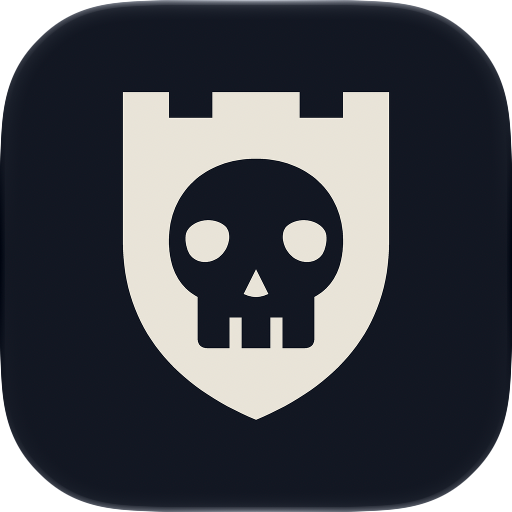
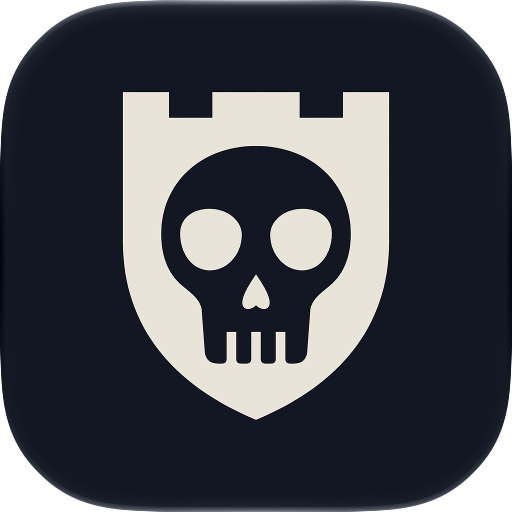
design: new app mark across the extension, iOS and Mac sources; drop stale captures

Changed region(s): [[0.3125, 0.2812, 0.6875, 0.5625], [0.375, 0.5312, 0.625, 0.7188]]

diff --git a/design/app-icon/hisn_mark.py b/design/app-icon/hisn_mark.py
@@ -4,7 +4,7 @@
 The mark is drawn in a 108 x 108 canvas (Android adaptive-icon units):
   base - the battlement shield (ink)
   cut  - the skull, knocked out of the shield (paper); jaw notches form teeth
-  back - eye sockets and nose, drawn back in ink
+  back - eye sockets and nasal cavity, drawn back in ink
 
 Running this script writes:
   design/app-icon/hisn-mark.svg             vector master (light colours)
@@ -25,17 +25,27 @@ from PIL import Image, ImageDraw
 ROOT = os.path.abspath(os.path.join(os.path.dirname(__file__), '..', '..'))
 
 BASE = ['M28 24 H37 V29 H45.5 V24 H62.5 V29 H71 V24 H80 V53 '
-        'C80 70.5 69.5 81.5 54 88 C38.5 81.5 28 70.5 28 53 Z']
-CUT = ['M54 37 C64 37 71 43.6 71 53 C71 58.6 68.8 62.2 65.4 64 L65.4 72 '
-       'Q65.4 74 63.4 74 L59.2 74 L59.2 68 L56.8 68 L56.8 74 L51.2 74 L51.2 68 '
-       'L48.8 68 L48.8 74 L44.6 74 Q42.6 74 42.6 72 L42.6 64 '
-       'C39.2 62.2 37 58.6 37 53 C37 43.6 44 37 54 37 Z']
+    'C80 70.5 69.5 81.5 54 88 C38.5 81.5 28 70.5 28 53 Z']
+# Skull: cranium, cheekbones curving into a tapered jaw, four teeth with
+# rounded tips (the gaps are notches in the jaw).
+CUT = [
+    'M54 34.5 C65 34.5 72.5 42 72.5 51.6 C72.5 56.4 71 59.6 68.4 61.8 C66.6 '
+    '63.3 65 64.4 64.6 66.4 L64 74.6 Q63.8 77 61.4 77 L60.65 77 Q59.75 77 '
+    '59.75 76.1 L59.75 70.8 L57.85 70.8 L57.85 76.1 Q57.85 77 56.95 77 '
+    'L55.85 77 Q54.95 77 54.95 76.1 L54.95 70.8 L53.05 70.8 L53.05 76.1 '
+    'Q53.05 77 52.15 77 L51.05 77 Q50.15 77 50.15 76.1 L50.15 70.8 L48.25 '
+    '70.8 L48.25 76.1 Q48.25 77 47.35 77 L46.6 77 Q44.2 77 44 74.6 L43.4 '
+    '66.4 C43 64.4 41.4 63.3 39.6 61.8 C37 59.6 35.5 56.4 35.5 51.6 C35.5 '
+    '42 43 34.5 54 34.5 Z',
+]
+# Eye sockets with a slightly lowered inner brow, and the nasal cavity.
 BACK = [
-    'M40.6 51 C42.2 48.6 46 48.4 48 50.2 C49.4 51.6 48.8 54.6 46.8 56.2 '
-    'C44.8 57.8 41.8 57.4 40.8 55.2 C40.2 53.8 40 52 40.6 51 Z',
-    'M67.4 51 C65.8 48.6 62 48.4 60 50.2 C58.6 51.6 59.2 54.6 61.2 56.2 '
-    'C63.2 57.8 66.2 57.4 67.2 55.2 C67.8 53.8 68 52 67.4 51 Z',
-    'M54 58.6 L56.4 63.4 Q54 64.6 51.6 63.4 Z',
+    'M39.2 51.6 C39.2 48.4 42 46.6 45.4 46.8 C48.6 47 51.4 49.2 51.2 52.2 '
+    'C51 56 48.2 58.8 45 58.8 C41.6 58.8 39.2 55.6 39.2 51.6 Z',
+    'M68.8 51.6 C68.8 48.4 66 46.6 62.6 46.8 C59.4 47 56.6 49.2 56.8 52.2 '
+    'C57 56 59.8 58.8 63 58.8 C66.4 58.8 68.8 55.6 68.8 51.6 Z',
+    'M54 59.6 C55.2 61.4 57 64 56.6 65.6 C56.3 66.6 55 66.6 54 65.6 C53 '
+    '66.6 51.7 66.6 51.4 65.6 C51 64 52.8 61.4 54 59.6 Z',
 ]
 # Bounding box of the mark: x 28..80, y 24..88, centre (54, 56).
 MARK_CX, MARK_CY = 54, 56
@@ -236,17 +246,17 @@ def main():
     # Android adaptive-icon layers and in-app marks (vectors).
     res = 'android/app/src/main/res/'
     write(res + 'drawable/ic_launcher_foreground.xml', vector_drawable(
-        'Launcher foreground: navy fortress shield, pearl skull.',
+    'Launcher foreground: navy fortress shield, pearl skull.',
         colour_layers(dict(ink=NAVY, paper=PEARL)), ANDROID_SCALE))
     write(res + 'drawable/ic_launcher_monochrome.xml', vector_drawable(
-        'Themed-icon layer: one silhouette, the skull is a hole.',
+    'Themed-icon layer: one silhouette, the skull is a hole.',
         SILHOUETTE, ANDROID_SCALE))
     write(res + 'drawable/ic_splash_mark.xml', vector_drawable(
-        'Android 12 splash: pearl shield on the navy splash background.',
+    'Android 12 splash: pearl shield on the navy splash background.',
         colour_layers(dict(ink=PEARL, paper=NAVY)), ANDROID_SCALE))
     # Brand mark is tinted in code, so it is a silhouette cropped to the mark.
     write(res + 'drawable/ic_brand_mark.xml', vector_drawable(
-        'In-app brand mark, tinted at runtime: one silhouette cropped to the shield.',
+    'In-app brand mark, tinted at runtime: one silhouette cropped to the shield.',
         SILHOUETTE, 1.0, viewport=68, size_dp=24))
 
     # Pre-Android 8 launcher icons: the adaptive icon's visible 72 dp window.

diff --git a/design/app-icon/README.md b/design/app-icon/README.md
@@ -2,7 +2,7 @@
 
 A navy fortress shield with a pearl skull knocked out of it. The battlements on the shield's top edge tie the mark to the name Hisn (حصن, "fortress"); the skull says what the app keeps out. The normal appearance is a navy shield on pearl; the dark appearance is a bone-white shield on charcoal. All platforms share the same mark.
 
-The mark is drawn as vector paths in `hisn_mark.py`, the single source for every platform. It uses a 108 × 108 canvas (Android adaptive-icon units). The shield is the ink layer, the skull is cut out of it (the jaw notches form the teeth), and the eyes and nose are drawn back in ink. The same paths produce the colour icons and a solid one-colour silhouette for themed, tinted and clear modes. `skull-concepts/` holds the three explored directions; this mark is concept C.
+The mark is drawn as vector paths in `hisn_mark.py`, the single source for every platform. It uses a 108 × 108 canvas (Android adaptive-icon units). The shield is the ink layer, the skull is cut out of it (the jaw notches form the teeth), and the eyes and nose are drawn back in ink. The same paths produce the colour icons and a solid one-colour silhouette for themed, tinted and clear modes. `skull-concepts/` holds the explored directions: the shield is concept C, the skull is the refined "Anatomical" redraw.
 
 | Token | Hex | Use |
 | --- | --- | --- |
